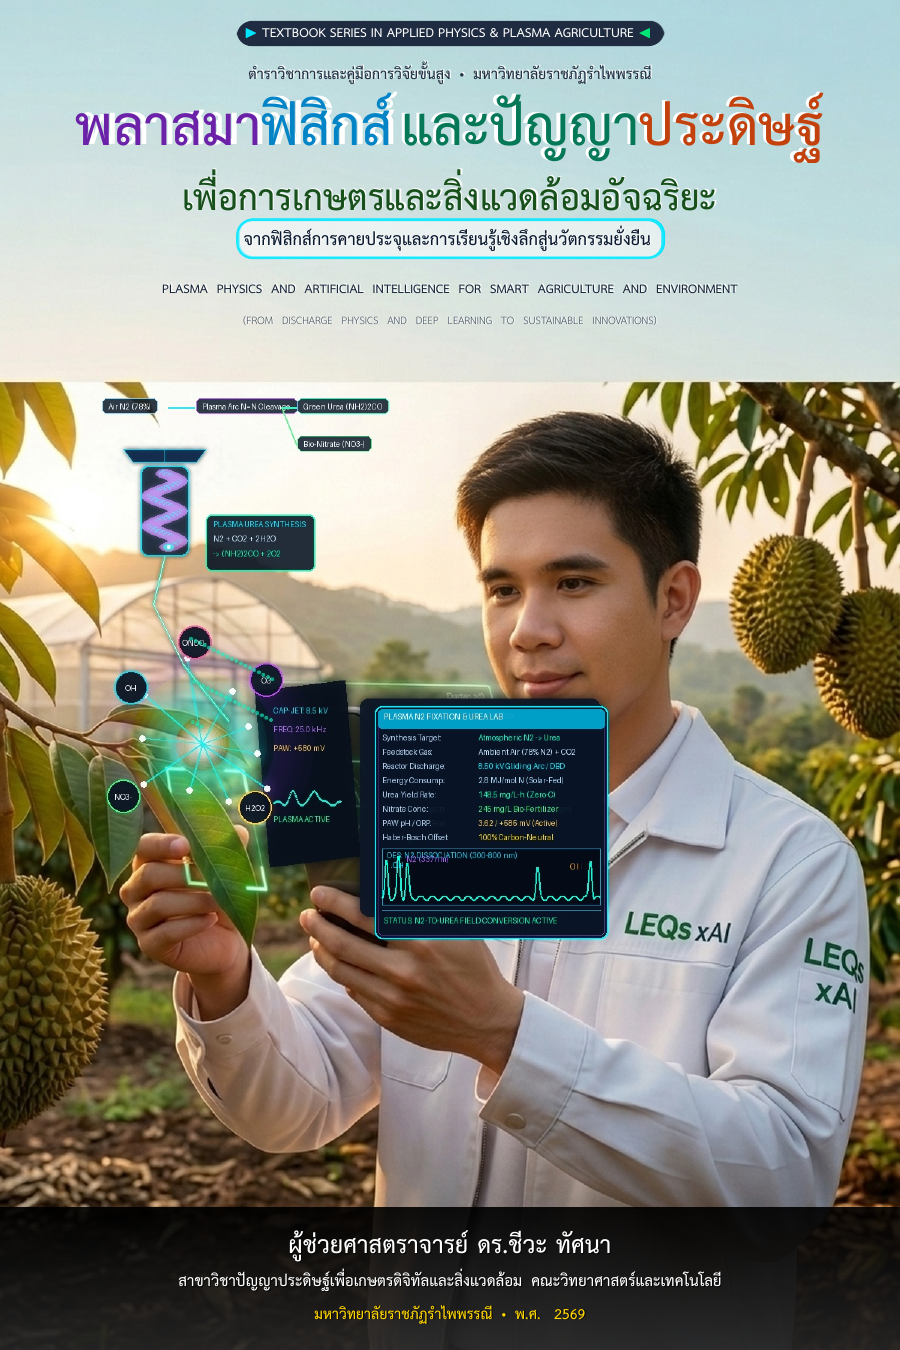
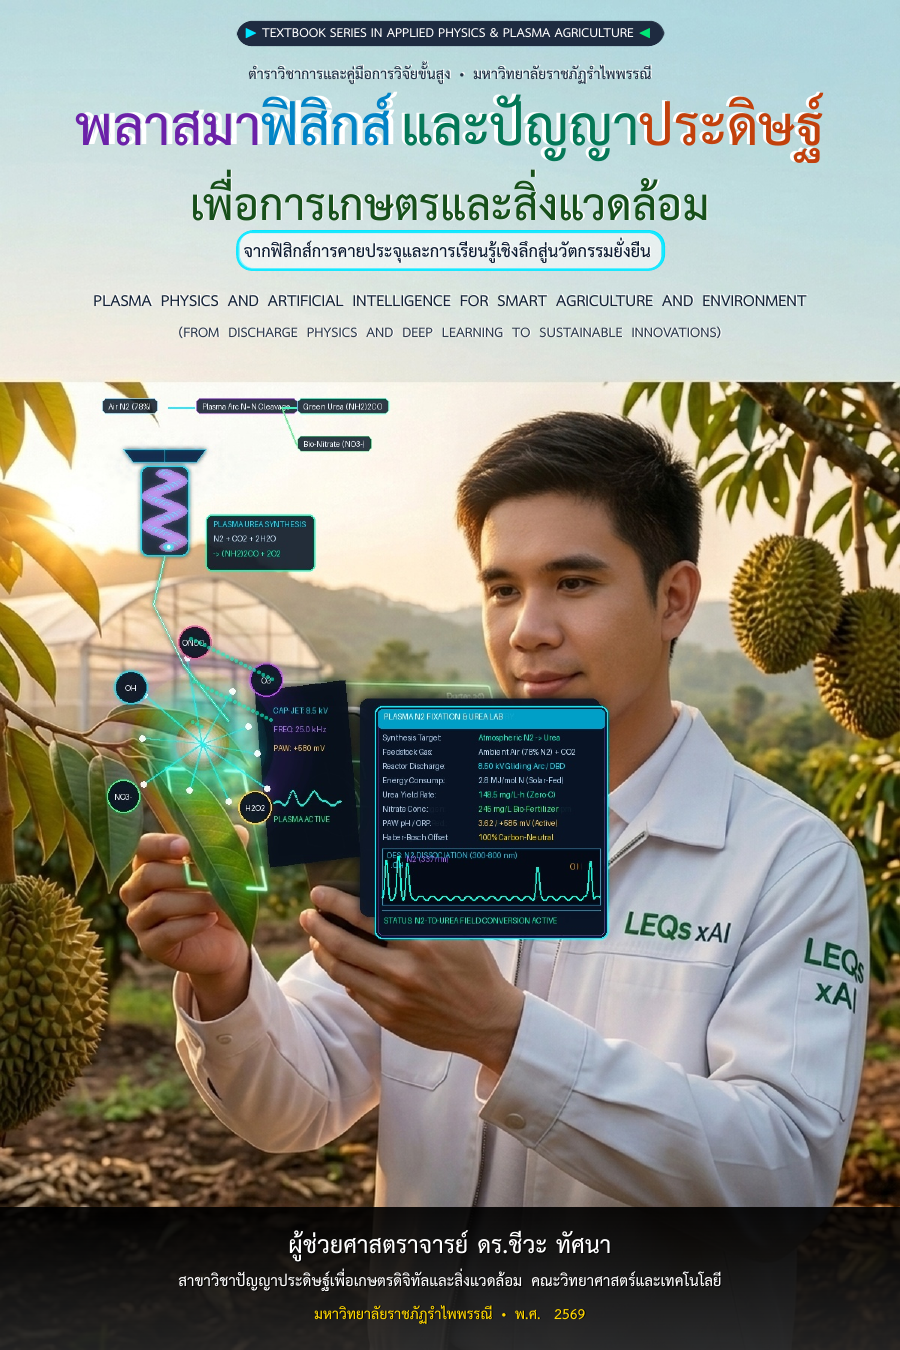
style: enlarge subtitle to 26pt bold and English title to 9.2pt/8pt bold

Changed region(s): [[0.1867, 0.1244, 0.9022, 0.2489], [0.1244, 0.2178, 0.1556, 0.2489]]

diff --git a/frontmatter/preface.tex b/frontmatter/preface.tex
@@ -7,7 +7,7 @@
 
 ความก้าวหน้าดังกล่าวได้เปิดพรมแดนใหม่ที่เรียกว่า \textbf{พลาสมาเพื่อการเกษตร (Plasma Agriculture)} และ \textbf{พลาสมาเพื่อการจัดการสิ่งแวดล้อม (Environmental Plasma Technology)} โดยอาศัยกลไกอันเป็นเอกลักษณ์ของพลาสมาในการผลิตอนุภาคที่มีความว่องไวทางเคมีสูง โดยเฉพาะอนุมูลอิสระของออกซิเจนและไนโตรเจน (Reactive Oxygen and Nitrogen Species หรือ RONS) สนามแม่เหล็กไฟฟ้า และรังสียูวี โดยใช้เพียงอากาศ น้ำ และพลังงานไฟฟ้าเป็นวัตถุดิบตั้งต้น เทคโนโลยีนี้จึงเปรียบเสมือนโรงงานเคมีสีเขียวขนาดจิ๋วที่สามารถกระตุ้นความงอกของเมล็ดพันธุ์ ตรึงไนโตรเจนจากอากาศมาสร้างเป็นปุ๋ยน้ำ (Plasma-Activated Water หรือ PAW) ยับยั้งเชื้อก่อโรคพืชและจุลินทรีย์ปนเปื้อนในอาหารหลังการเก็บเกี่ยว ตลอดจนย่อยสลายสารพิษตกค้างและมลพิษในน้ำ ดิน และอากาศได้อย่างมีประสิทธิภาพโดยไม่ทิ้งสารเคมีตกค้าง
 
-หนังสือ \textbf{พลาสมาฟิสิกส์และปัญญาประดิษฐ์ เพื่อการเกษตรและสิ่งแวดล้อมอัจฉริยะ: จากฟิสิกส์การคายประจุและการเรียนรู้เชิงลึกสู่นวัตกรรมยั่งยืน} เล่มนี้ เรียบเรียงขึ้นโดยมีวัตถุประสงค์เพื่อเป็นสะพานเชื่อมองค์ความรู้ระหว่างนักฟิสิกส์ วิศวกร นักวิทยาศาสตร์การเกษตร นักจุลชีววิทยา และนักวิทยาศาสตร์สิ่งแวดล้อม เนื้อหาภายในเล่มได้รับการออกแบบให้มีความต่อเนื่องอย่างเป็นระบบ เริ่มตั้งแต่การปูพื้นฐานทางฟิสิกส์ของสถานะพลาสมาและเคมีของการคายประจุในก๊าซด้วยภาษาที่เข้าใจง่าย ไปจนถึงการเจาะลึกกลไกระดับเซลล์และโมเลกุลในการประยุกต์ใช้งานทางการเกษตรตั้งแต่ต้นน้ำถึงปลายน้ำ การบำบัดมลพิษสิ่งแวดล้อมครบวงจร และการออกแบบขยายขนาดระบบสู่การใช้งานจริงในระดับอุตสาหกรรม
+หนังสือ \textbf{พลาสมาฟิสิกส์และปัญญาประดิษฐ์ เพื่อการเกษตรและสิ่งแวดล้อม: จากฟิสิกส์การคายประจุและการเรียนรู้เชิงลึกสู่นวัตกรรมยั่งยืน} เล่มนี้ เรียบเรียงขึ้นโดยมีวัตถุประสงค์เพื่อเป็นสะพานเชื่อมองค์ความรู้ระหว่างนักฟิสิกส์ วิศวกร นักวิทยาศาสตร์การเกษตร นักจุลชีววิทยา และนักวิทยาศาสตร์สิ่งแวดล้อม เนื้อหาภายในเล่มได้รับการออกแบบให้มีความต่อเนื่องอย่างเป็นระบบ เริ่มตั้งแต่การปูพื้นฐานทางฟิสิกส์ของสถานะพลาสมาและเคมีของการคายประจุในก๊าซด้วยภาษาที่เข้าใจง่าย ไปจนถึงการเจาะลึกกลไกระดับเซลล์และโมเลกุลในการประยุกต์ใช้งานทางการเกษตรตั้งแต่ต้นน้ำถึงปลายน้ำ การบำบัดมลพิษสิ่งแวดล้อมครบวงจร และการออกแบบขยายขนาดระบบสู่การใช้งานจริงในระดับอุตสาหกรรม
 
 ผู้เขียนหวังเป็นอย่างยิ่งว่า หนังสือเล่มนี้จะเป็นประโยชน์ต่อนักศึกษาระดับปริญญาตรีและบัณฑิตศึกษา คณาจารย์ นักวิจัย ตลอดจนผู้ประกอบการด้านเทคโนโลยีเกษตรสมัยใหม่ (AgriTech) และเทคโนโลยีสะอาด (CleanTech) ในการใช้เป็นตำราเรียน เอกสารอ้างอิง และแรงบันดาลใจในการสร้างสรรค์งานวิจัยและนวัตกรรมพลาสมา เพื่อร่วมกันขับเคลื่อนภาคการเกษตรและการจัดการสิ่งแวดล้อมของประเทศไทยให้ก้าวสู่ความยั่งยืนอย่างแท้จริง
 

diff --git a/frontmatter/cover.tex b/frontmatter/cover.tex
@@ -31,18 +31,18 @@
         {\fontsize{8.5}{11}\selectfont\color{white}\textbf{ตำราวิชาการและคู่มือการวิจัยขั้นสูง \textbullet\ มหาวิทยาลัยราชภัฏรำไพพรรณี}}\\[3pt]
         
         % Main Title Line 1 (Option 1: 32pt - Fits precisely on 1 single magnificent line)
-        {\fontsize{32}{38}\selectfont\bfseries\color{white} พลาสมาฟิสิกส์และปัญญาประดิษฐ์}\\[2pt]
-        % Main Title Line 2
-        {\fontsize{21}{26}\selectfont\bfseries\color{white} เพื่อการเกษตรและสิ่งแวดล้อมอัจฉริยะ}\\[3pt]
+        {\fontsize{32}{38}\selectfont\bfseries\color{white} พลาสมาฟิสิกส์และปัญญาประดิษฐ์}\\[2.5pt]
+        % Main Title Line 2 (Enlarged to 26pt Bold)
+        {\fontsize{26}{32}\selectfont\bfseries\color{white} เพื่อการเกษตรและสิ่งแวดล้อม}\\[3.5pt]
         % Subtitle Pill Tag
         \begin{tikzpicture}
             \node[draw=cyberCyan, line width=1.1pt, rounded corners=2.5mm, inner sep=3pt] {
                 \fontsize{10}{12.5}\selectfont\bfseries\color{white} จากฟิสิกส์การคายประจุและการเรียนรู้เชิงลึกสู่นวัตกรรมยั่งยืน
             };
-        \end{tikzpicture}\\[3pt]
-        % English Subtitle
-        {\fontsize{7.2}{9.5}\selectfont\bfseries\color{white} PLASMA PHYSICS AND ARTIFICIAL INTELLIGENCE FOR SMART AGRICULTURE AND ENVIRONMENT}\\[1.5pt]
-        {\fontsize{6.2}{8}\selectfont\color{white} (FROM DISCHARGE PHYSICS AND DEEP LEARNING TO SUSTAINABLE INNOVATIONS)}
+        \end{tikzpicture}\\[3.5pt]
+        % English Title & Subtitle (Enlarged & Bold)
+        {\fontsize{9.2}{12}\selectfont\bfseries\color{white} PLASMA PHYSICS AND ARTIFICIAL INTELLIGENCE FOR SMART AGRICULTURE AND ENVIRONMENT}\\[1.5pt]
+        {\fontsize{8.0}{10.5}\selectfont\bfseries\color{white} (FROM DISCHARGE PHYSICS AND DEEP LEARNING TO SUSTAINABLE INNOVATIONS)}
     };
 
     % Foreground Layer (Crisp typography with Multicolored Plasma Spectrum)
@@ -60,18 +60,18 @@
         {\color{specCyan}ฟิสิกส์}\ %
         {\color{specEmerald}และปัญญา}%
         {\color{specCoral}ประดิษฐ์}%
-        }\\[2pt]
-        % Main Title Line 2
-        {\fontsize{21}{26}\selectfont\bfseries\color{agriGreen!85!black} เพื่อการเกษตรและสิ่งแวดล้อมอัจฉริยะ}\\[3pt]
+        }\\[2.5pt]
+        % Main Title Line 2 (Enlarged to 26pt Bold in Deep Emerald Agri-Green)
+        {\fontsize{26}{32}\selectfont\bfseries\color{agriGreen!85!black} เพื่อการเกษตรและสิ่งแวดล้อม}\\[3.5pt]
         % Subtitle Pill Tag
         \begin{tikzpicture}
             \node[draw=cyberCyan!90, line width=1.1pt, fill=white!55, fill opacity=0.55, text opacity=1.0, rounded corners=2.5mm, inner sep=3pt] {
                 \fontsize{10}{12.5}\selectfont\bfseries\color{deepIndigo} จากฟิสิกส์การคายประจุและการเรียนรู้เชิงลึกสู่นวัตกรรมยั่งยืน
             };
-        \end{tikzpicture}\\[3pt]
-        % English Subtitle
-        {\fontsize{7.2}{9.5}\selectfont\bfseries\color{deepIndigo!95} PLASMA PHYSICS AND ARTIFICIAL INTELLIGENCE FOR SMART AGRICULTURE AND ENVIRONMENT}\\[1.5pt]
-        {\fontsize{6.2}{8}\selectfont\color{deepIndigo!80} (FROM DISCHARGE PHYSICS AND DEEP LEARNING TO SUSTAINABLE INNOVATIONS)}
+        \end{tikzpicture}\\[3.5pt]
+        % English Title & Subtitle (Enlarged & Bold in Deep Indigo)
+        {\fontsize{9.2}{12}\selectfont\bfseries\color{deepIndigo!95} PLASMA PHYSICS AND ARTIFICIAL INTELLIGENCE FOR SMART AGRICULTURE AND ENVIRONMENT}\\[1.5pt]
+        {\fontsize{8.0}{10.5}\selectfont\bfseries\color{deepIndigo!85} (FROM DISCHARGE PHYSICS AND DEEP LEARNING TO SUSTAINABLE INNOVATIONS)}
     };
 
     % 3. BOTTOM ZONE: Natural Dark Soil Canvas with Micro Shadow & Soft Depth Vignette

diff --git a/frontmatter/inner_title.tex b/frontmatter/inner_title.tex
@@ -26,9 +26,9 @@
       at ([yshift=-0.65in]current page.north) {
     {\fontsize{9}{12}\selectfont\color{plasmaCyan!90}\bfseries RAMBHAI BARNI RAJABHAT UNIVERSITY}\\[14pt]
     {\fontsize{18}{22}\selectfont\bfseries\color{white} พลาสมาฟิสิกส์และปัญญาประดิษฐ์}\\[4pt]
-    {\fontsize{16}{20}\selectfont\bfseries\color{white} เพื่อการเกษตรและสิ่งแวดล้อมอัจฉริยะ}\\[6pt]
+    {\fontsize{17}{21}\selectfont\bfseries\color{white} เพื่อการเกษตรและสิ่งแวดล้อม}\\[6pt]
     {\fontsize{11.5}{15}\selectfont\color{plasmaGold!95} จากฟิสิกส์การคายประจุและการเรียนรู้เชิงลึกสู่นวัตกรรมยั่งยืน}\\[8pt]
-    {\fontsize{8}{10.5}\selectfont\color{white!75} PLASMA PHYSICS AND ARTIFICIAL INTELLIGENCE FOR SMART AGRICULTURE AND ENVIRONMENT\\(FROM DISCHARGE PHYSICS AND DEEP LEARNING TO SUSTAINABLE INNOVATIONS)}
+    {\fontsize{8.5}{11}\selectfont\bfseries\color{white!85} PLASMA PHYSICS AND ARTIFICIAL INTELLIGENCE FOR SMART AGRICULTURE AND ENVIRONMENT\\(FROM DISCHARGE PHYSICS AND DEEP LEARNING TO SUSTAINABLE INNOVATIONS)}
 };
 
 % 4. Center 100% Vector Art: Agricultural Horizon & Cold Plasma Jet

diff --git a/main.tex b/main.tex
@@ -5,7 +5,7 @@
 % =========================================================================
 \usepackage{styles/rbru_plasma}
 
-\title{พลาสมาฟิสิกส์และปัญญาประดิษฐ์ เพื่อการเกษตรและสิ่งแวดล้อมอัจฉริยะ}
+\title{พลาสมาฟิสิกส์และปัญญาประดิษฐ์ เพื่อการเกษตรและสิ่งแวดล้อม}
 \author{ผู้ช่วยศาสตราจารย์ ดร.ชีวะ ทัศนา}
 \date{พ.ศ. 2569}
 

diff --git a/README.md b/README.md
@@ -1,6 +1,6 @@
 # plasma-agri-xai
 
-## พลาสมาฟิสิกส์และปัญญาประดิษฐ์ เพื่อการเกษตรและสิ่งแวดล้อมอัจฉริยะ
+## พลาสมาฟิสิกส์และปัญญาประดิษฐ์ เพื่อการเกษตรและสิ่งแวดล้อม
 **Plasma Physics and Artificial Intelligence for Smart Agriculture and Environment: From Discharge Physics and Deep Learning to Sustainable Innovations**
 
 **ผู้แต่ง / Author:**  
